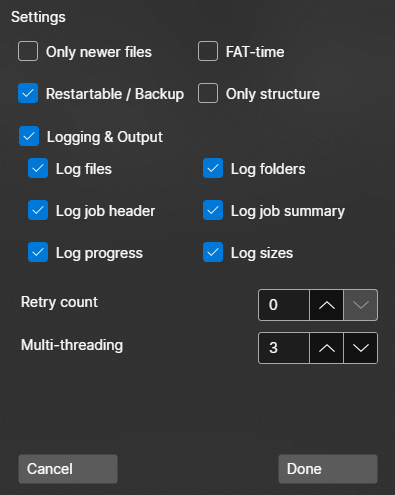
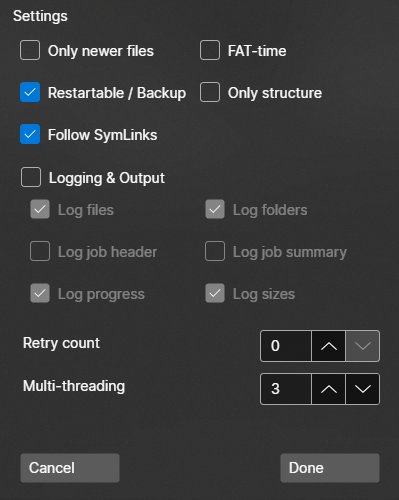
closes #1; added /sl switch

diff --git a/Classes/Operation.cs b/Classes/Operation.cs
@@ -16,6 +16,7 @@ namespace robocopy_gui.Classes {
     public bool IsUseFATTime { get; set; } = false; //useful when copying between two file systems, 2s precision
     public bool IsRestartableBackup { get; set; } = false; //copies files in restartable mode. If file access is denied, switches to backup mode.
     public bool IsCreate { get; set; } = false; //copies only folder structure, with zero-length files
+    public bool IsFollowSymLinks { get; set; } = true; //sl disables following sym links and instead copies the link itself
     public bool IsLoggingFiles { get; set; } = true; //nfl doesn't list files names
     public bool IsLoggingFolders { get; set; } = true; //ndl doesn't list folder names
     public bool IsLoggingJobHeader { get; set; } = false; //njh doesn't log job header
@@ -127,6 +128,7 @@ namespace robocopy_gui.Classes {
         if (parts[i].ToLower() == "/fft") { IsUseFATTime = true; }
         if (parts[i].ToLower() == "/zb") { IsRestartableBackup = true; }
         if (parts[i].ToLower() == "/create") { IsCreate = true; }
+        if (parts[i].ToLower() == "/sl") { IsFollowSymLinks = false; }
         if (parts[i].ToLower() == "/nfl") { IsLoggingFiles = false; }
         if (parts[i].ToLower() == "/ndl") { IsLoggingFolders = false; }
         if (parts[i].ToLower() == "/njh") { IsLoggingJobHeader = false; }
@@ -205,6 +207,7 @@ namespace robocopy_gui.Classes {
         if (IsUseFATTime) { command += " /fft"; }
         if (IsRestartableBackup) { command += " /zb"; }
         if (IsCreate) { command += " /create"; }
+        if (!IsFollowSymLinks) { command += " /sl"; }
         if (!IsLoggingFiles) { command += " /nfl"; }
         if (!IsLoggingFolders) { command += " /ndl"; }
         if (!IsLoggingJobHeader) { command += " /njh"; }

diff --git a/UI/DialogRobocopySettings.axaml.cs b/UI/DialogRobocopySettings.axaml.cs
@@ -13,6 +13,7 @@ public partial class DialogRobocopySettings : Window {
   public bool FATTime { get; set; } = false;
   public bool RestartableBackup { get; set; } = false;
   public bool Create { get; set; } = false;
+  public bool FollowSymLinks { get; set; } = true;
   public bool LoggingEnabled { get; set; } = true;
   public bool LogFiles { get; set; } = true;
   public bool LogFolders { get; set; } = true;
@@ -37,6 +38,8 @@ public partial class DialogRobocopySettings : Window {
     CheckRestartableBackup.IsChecked = RestartableBackup;
     Create = operation.IsCreate;
     CheckCreate.IsChecked = Create;
+    FollowSymLinks = operation.IsFollowSymLinks;
+    CheckSymLinks.IsChecked = FollowSymLinks;
 
     LoggingEnabled = operation.IsLoggingEnabled;
     CheckEnableLogging.IsChecked = LoggingEnabled;
@@ -83,6 +86,8 @@ public partial class DialogRobocopySettings : Window {
     FATTime = CheckFAT.IsChecked ?? false;
     RestartableBackup = CheckRestartableBackup.IsChecked ?? false;
     Create = CheckCreate.IsChecked ?? false;
+    FollowSymLinks = CheckSymLinks.IsChecked ?? false;
+
     LoggingEnabled = CheckEnableLogging.IsChecked ?? false;
     LogFiles = CheckLogFiles.IsChecked ?? false;
     LogFolders = CheckLogFolders.IsChecked ?? false;

diff --git a/UI/RowOperationRobocopy.cs b/UI/RowOperationRobocopy.cs
@@ -171,6 +171,7 @@ namespace robocopy_gui.UI {
           MainWindow.OperationsList[index].IsUseFATTime = dialog.FATTime;
           MainWindow.OperationsList[index].IsRestartableBackup = dialog.RestartableBackup;
           MainWindow.OperationsList[index].IsCreate = dialog.Create;
+          MainWindow.OperationsList[index].IsFollowSymLinks = dialog.FollowSymLinks;
           MainWindow.OperationsList[index].IsLoggingEnabled = dialog.LoggingEnabled;
           MainWindow.OperationsList[index].IsLoggingFiles = dialog.LogFiles;
           MainWindow.OperationsList[index].IsLoggingFolders = dialog.LogFolders;

diff --git a/README.md b/README.md
@@ -61,3 +61,4 @@ These items seem either impossible or at least unfeasible. Further research migh
 
 - development using Visual Studio 2022 is recommended
 - installation of [AvaloniaUI extension](https://avaloniaui.net/GettingStarted#installation) is recommended
+- Solution is set up to produce self-contained `.exe` in folder `publish`, using Visual Studio's publishing function
